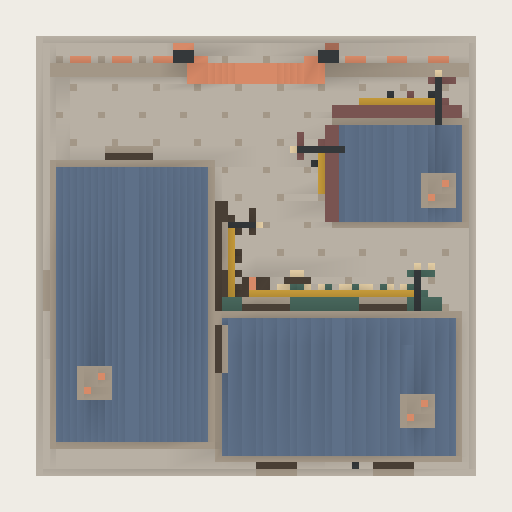
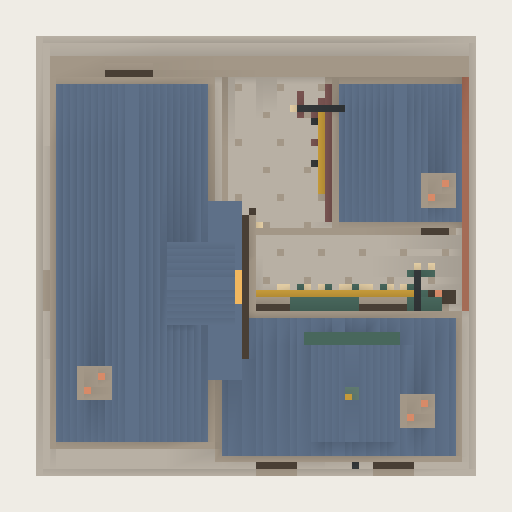
refine(diagon): conceal entrance behind brick wall and form an exaggerated L-shaped alley

diff --git a/src/generators/diagonAlley.js b/src/generators/diagonAlley.js
@@ -3,17 +3,19 @@ import { createVoxelMassingLab, VOXEL_WRITE_PRIORITIES } from "./voxelBuildingLa
 
 export const DIAGON_ASSET_ID = "diagon-alley-001";
 export function diagonAlleySpec() {
-  const shop = (id,x,z,width,depth,height,wall,roofHeight) => ({
+  const shop = (id,x,z,width,depth,height,wall,roofHeight,base=0,orientation="north_south") => ({
     id,type:"solid",cells:[[x>=0?1:0,z>=0?1:0]],dimensionsVoxels:{width,depth},
-    placement:{offsetVoxels:{x:x-(x>=0?16:-16),z:z-(z>=0?16:-16)}},heightVoxels:height,
-    cap:{type:"gable",heightVoxels:roofHeight,orientation:"north_south"},
+    placement:{offsetVoxels:{x:x-(x>=0?16:-16),z:z-(z>=0?16:-16)}},heightVoxels:height,baseYVoxels:base,
+    cap:{type:"gable",heightVoxels:roofHeight,orientation},
     materials:{wall,roof:"slate",trim:"timber",window:"warmWindow"},facade:{enabled:false}
   });
-  const spec=createUrbanMassingSpec({id:DIAGON_ASSET_ID,seed:"diagon-alley-v1",widthCells:2,depthCells:2,
-    masses:[shop("wand-shop",-18,-7,22,40,44,"stoneShadow",13),
+  const spec=createUrbanMassingSpec({id:DIAGON_ASSET_ID,seed:"diagon-alley-v2",widthCells:2,depthCells:2,
+    masses:[shop("wand-shop",-18,-1,22,52,44,"stoneShadow",17),
       shop("bookshop",12,-19,34,20,31,"pavement",10),
-      shop("apothecary",21,12,18,14,14,"brickBrown",6)]});
-  return {...spec,assetId:DIAGON_ASSET_ID,assetRevision:1,footprint:{...spec.footprint,worldWidth:8,worldDepth:8}};
+      shop("apothecary",21,15,18,20,17,"brickBrown",9),
+      shop("bookshop-tower",14,-20,12,14,16,"pavement",14,31),
+      shop("wand-dormer",-8,-4,10,12,8,"stoneShadow",7,48,"east_west") ]});
+  return {...spec,assetId:DIAGON_ASSET_ID,assetRevision:2,footprint:{...spec.footprint,worldWidth:8,worldDepth:8}};
 }
 
 export function addDiagonDetails(buffer) {
@@ -23,6 +25,10 @@ export function addDiagonDetails(buffer) {
   box("pavement",-31,0,-31,62,1,62);
   for(let z=-28;z<30;z+=4) for(let x=-29+(z%8===0?2:0);x<30;x+=6)
     box("stoneShadow",x,0,z,1,1,1);
+  // Continuous L-shaped paving strip, rather than a central open courtyard.
+  box("stoneShadow",-5,0,-3,1,1,29);box("stoneShadow",10,0,5,1,1,21);
+  box("stoneShadow",0,0,3,29,1,1);
+  box("brickBrown",30,1,-8,1,17,34); // closes side shortcuts around the shops
   // Facade coordinates: horizontal u, vertical y, outward depth d.
   function facade(x,z,face) {
     return (m,u,y,d,w,h,t=1)=> {
@@ -69,20 +75,30 @@ export function addDiagonDetails(buffer) {
   const potions=facade(12,6,"left");
   shopfront(wand,"timber",26,"wands");
   shopfront(books,"shopGreen",30,"books");
-  shopfront(potions,"shopWine",12,"potions");
-  for(const y of [20,34]) for(const u of [3,18]) window(wand,u,y);
+  shopfront(potions,"shopWine",18,"potions");
+  for(const u of [3,18]) window(wand,u,20);
+  // A hanging upper room and projecting casements exaggerate the silhouette
+  // without diagonal geometry or occupying the walking lane at ground level.
+  box("stoneShadow",-7,31,-17,4,13,24);
+  box("timber",-7,30,-18,5,1,26);box("slate",-7,44,-18,5,2,26);
+  const jetty=facade(-3,-17,"right");
+  for(const u of [3,17]) window(jetty,u,34,5,8);
+  const dormer=facade(-3,-10,"right");window(dormer,3,49,5,6);
+  const tower=facade(8,-13,"front");window(tower,3,36,5,9);
+  box("shopGreen",7,32,-13,14,2,2);box("shopGreen",7,46,-13,14,2,2);
+  // A tiny copper finial tops the disproportionately tall bookshop roof.
+  box("patinaMetal",13,60,-21,2,4,2);box("gildedMetal",13,64,-21,1,2,1);
   for(const u of [3,20]) window(books,u,21,5,6);
   // Street-facing end elevations, with fewer windows than the shop fronts.
-  const wandEnd=facade(-29,13,"front");
-  for(const y of [6,21,35]) window(wandEnd,8,y,5,6);
-  const chemEnd=facade(12,19,"front"); shopfront(chemEnd,"shopWine",17,"potions");
+  const wandEnd=facade(-29,25,"front");
+  for(const y of [21,35]) window(wandEnd,8,y,5,6);
   // Restrained service elevations keep the asset complete when the city rotates.
   const rearWand=facade(-29,-7,"left"), rearBooks=facade(-5,-30,"back");
   for(const y of [20,34]) window(rearWand,0,y,4,6);
   for(const u of [6,23]) window(rearBooks,u,21,4,6);
   rearBooks("timber",15,1,0,5,11);rearBooks("iron",19,5,1,1,1);
   box("iron",-30,1,-23,1,42,1);box("iron",27,1,-30,1,29,1);
-  for(const [x,z,w,d,levels] of [[-29,-27,22,40,[15,30,43]],[-5,-29,34,20,[16,30]],[12,5,18,14,[13]]]) {
+  for(const [x,z,w,d,levels] of [[-29,-27,22,52,[15,30,43]],[-5,-29,34,20,[16,30]],[12,5,18,20,[16]]]) {
     for(const y of levels) {
       box("stoneShadow",x-1,y,z-1,w+2,1,1);box("stoneShadow",x-1,y,z+d,w+2,1,1);
       box("stoneShadow",x-1,y,z,1,1,d);box("stoneShadow",x+w,y,z,1,1,d);
@@ -93,33 +109,26 @@ export function addDiagonDetails(buffer) {
     box("brickBrown",x,y,z,3,h,3);box("stoneShadow",x-1,y+h,z-1,5,1,5);
     box("brickRed",x,y+h+1,z,1,3,1);box("brickRed",x+2,y+h+1,z+2,1,3,1);
   }
-  // Low enclosing wall and a stepped opened-brick arch. Clear passage is
-  // x=-5..6, with at least ten voxels of headroom under the springing.
-  box("brickBrown",-30,1,26,23,7,2);box("brickBrown",9,1,26,22,7,2);
-  for(const x of [-10,7]) box("brickRed",x,1,25,3,11,4);
-  for(let i=0;i<4;i++) {
-    box("brickRed",-7+i,11+i,25,1,2,3);
-    box("brickRed",6-i,11+i,25,1,2,3);
-  }
-  box("brickRed",-3,15,25,6,2,3);
-  box("stoneShadow",-30,8,26,20,1,2);box("stoneShadow",10,8,26,21,1,2);
-  for(const x of [-27,-21,-15,13,19,25]) box("brickRed",x,4,28,3,1,1);
-  // A few displaced bricks suggest the wall has just opened.
-  box("brickRed",-12,1,29,3,2,2);box("brickBrown",10,1,29,2,1,2);
-  for(const x of [-11,10]) {
-    box("iron",x,8,28,1,5,1);box("warmWindow",x,10,29,1,2,1);
-    box("iron",x-1,12,28,3,1,2);
-  }
+  // Closed magical brick entrance: no visible arch, public shop window, or
+  // gap through which the street can look into the alley. Opening animation
+  // is intentionally not part of this fixed asset.
+  box("brickBrown",-30,1,26,61,18,3);
+  box("stoneShadow",-30,19,26,61,1,3);
+  for(let y=2;y<18;y+=3) for(let x=-29+(y%2)*3;x<29;x+=7)
+    box("brickRed",x,y,28,4,1,1);
+  // A subtle offset-brick seam identifies the secret panel only close up.
+  for(let y=2;y<15;y+=3) box("stoneShadow",-5,y,28,1,1,1);
+  box("brickRed",1,8,28,2,1,1);
   // Modest book crates and a freestanding notice board inside the alley.
-  box("timber",-2,1,-6,4,3,3);box("brickRed",-1,4,-5,1,2,2);
-  box("shopGreen",5,1,-5,1,7,1);box("timber",4,3,-4,4,5,1);
-  box("sandstone",5,4,-3,2,3,1);
+  box("timber",25,1,-7,4,3,2);box("brickRed",26,4,-7,1,2,2);
+  box("shopGreen",25,1,3,1,7,1);box("timber",24,3,3,4,5,1);
+  box("sandstone",25,4,4,2,3,1);
 }
 
 export function createDiagonAlley({cellWorldSize=4,nightLighting=0}={}) {
   const root=createVoxelMassingLab({spec:diagonAlleySpec(),renderStrategy:"greedy",nightLighting,voxelDetailPass:addDiagonDetails});
   root.name="DiagonAlley";root.scale.setScalar(cellWorldSize/4);
-  root.userData={...root.userData,assetId:DIAGON_ASSET_ID,assetRevision:1,representation:"special-landmark-voxel",
+  root.userData={...root.userData,assetId:DIAGON_ASSET_ID,assetRevision:2,representation:"special-landmark-voxel",
     sphereProjectionRoot:true,footprint:"2x2",entrance:"north",authoredParcelSize:8,voxelSize:.125};
   return root;
 }

diff --git a/test/diagonAlley.test.js b/test/diagonAlley.test.js
@@ -23,11 +23,15 @@ test("alley remains on the shared voxel grid and within its parcel in all orient
   disposeBuildingObject(model);
 });
 
-test("brick gateway and internal lane have continuous clear walking headroom",()=>{
+test("closed secret wall conceals a continuous L-shaped internal lane",()=>{
   const model=createVoxelMassingLab({spec:diagonAlleySpec(),renderStrategy:"greedy",voxelDetailPass(buffer){
     addDiagonDetails(buffer);
-    for(let z=-2;z<=30;z++) for(let x=-2;x<=2;x++) for(let y=1;y<=9;y++)
+    for(let z=-2;z<=25;z++) for(let x=0;x<=3;x++) for(let y=1;y<=9;y++)
       assert.equal(buffer.getMaterialAt(x,y,z),null,`blocked route at ${x},${y},${z}`);
+    for(let x=0;x<=27;x++) for(let z=-2;z<=1;z++) for(let y=1;y<=9;y++)
+      assert.equal(buffer.getMaterialAt(x,y,z),null,`blocked bend at ${x},${y},${z}`);
+    for(let x=-29;x<=29;x++) for(let y=1;y<=18;y++)
+      assert.ok(buffer.getMaterialAt(x,y,26),"front brick wall must have no open gateway");
   }});disposeBuildingObject(model);
 });
 

diff --git a/docs/visual-development/diagon-alley-001/README.md b/docs/visual-development/diagon-alley-001/README.md
@@ -1,8 +1,8 @@
-# 斜角巷 · 2×2 体素商业街（第一版）
+# 斜角巷 · 2×2 体素商业街（第二版）
 
-三层魔杖店、两层书店、单层转角药剂店围出内部巷道，前方为低矮旧砖墙与打开的砖拱入口。入口朝 +Z，地块为 8×8 世界单位。房屋主体约占 44% 地块，留出贯通入口的内部巷道与前庭。
+三层魔杖店、带高阁楼的书店、低矮药剂店夹出一条 L 形内部巷道。入口朝 +Z，地块为 8×8 世界单位。临街面为闭合旧砖墙，仅通过细微砖缝暗示秘密入口，固定资产表现关闭状态，不含开墙动画。加长两侧房屋，取消原先的开放前庭；巷道先向里再右转。
 
-第一轮实渲发现右前两层店铺遮挡内部，因而将药剂店压低、缩短进深，并增加临街店面。本版供继续审美迭代，不是整条电影街景的缩比复刻。
+第二版移除外露砖拱和临街橱窗；魔杖店增加悬挑房间、大老虎窗和更陡屋顶，书店增加高窄阁楼及铜色顶饰。低矮药剂店让俯视仍能看到部分内部店面。本版供继续审美迭代，不是整条电影街景的缩比复刻。
 
 ![正面](front.png)
 
@@ -15,7 +15,7 @@
 - 暖灰石墙、灰褐墙、旧红砖入口，共用蓝灰板岩屋顶和暖琥珀窗光，不使用米色 Tudor 木构。
 - 新增 `shopGreen`、`shopWine` 哑光漆木材质，用于底层店面和吊牌；使用既有 painted 表面着色，非金属、非自发光。
 - `src/generators/diagonAlley.js` 是固定资产源，复用 UrbanMassingSpec、VoxelInstanceBuffer 与 greedy meshing；所有面位于 0.125 体素网格。
-- 5932 三角形；已有/新建 2×2 斜角巷、放置预览、CPU 可视化共用工厂。非 2×2 历史记录保留旧路径。
+- 7000 三角形；已有/新建 2×2 斜角巷、放置预览、CPU 可视化共用工厂。非 2×2 历史记录保留旧路径。
 - 不改变卡牌遮蔽效果、成本或其他玩法。巷道为资产内部视觉空间，不写入城市道路网络。
 - CPU 预览采用简化日光，不完整代表游戏内 AO、动态阴影和夜间发光。
 
@@ -27,4 +27,4 @@ pnpm visualize:building public/generated/diagon-alley-001/asset.json docs/visual
 pnpm visualize:building public/generated/diagon-alley-001/asset.json docs/visual-development/diagon-alley-001/back.png back 512
 ```
 
-测试覆盖四向边界、体素网格、面数预算、入口到内巷的连续净空，以及城市/预览/可视化一致性。
+测试覆盖四向边界、体素网格、面数预算、关闭入口墙的完整性、内巷两段及转角连续净空，以及城市/预览/可视化一致性。
